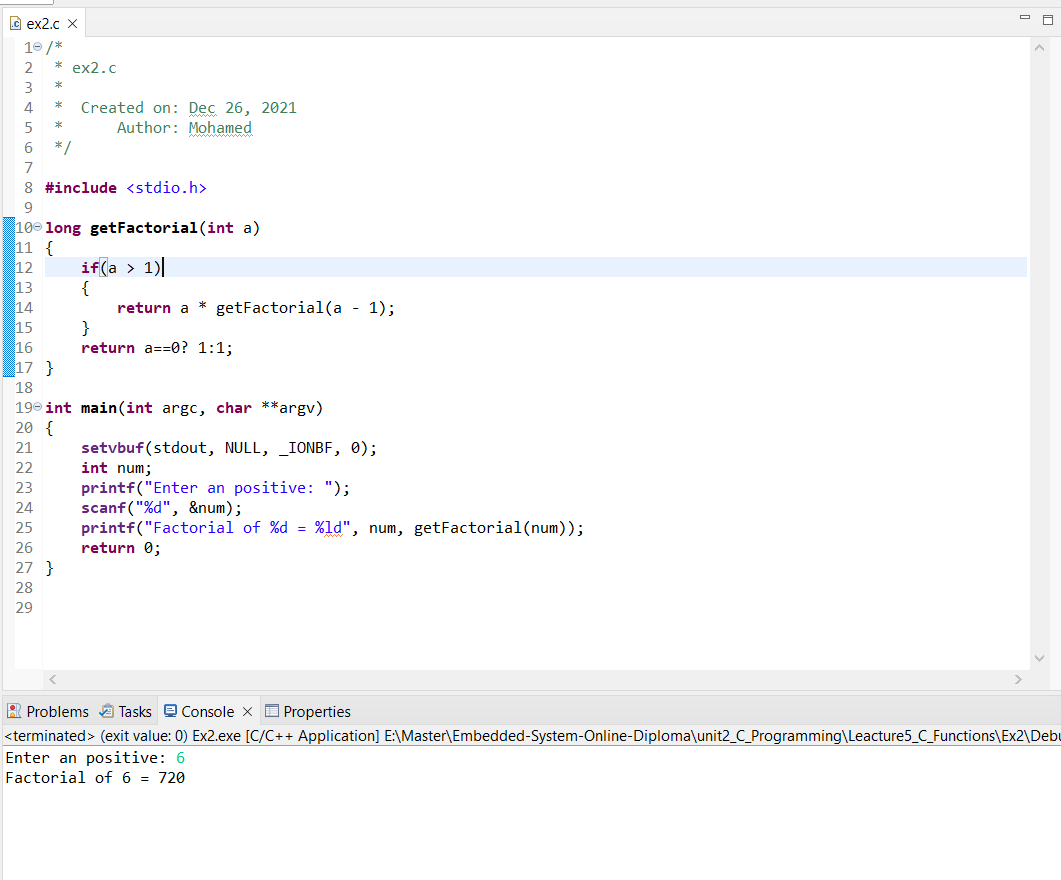
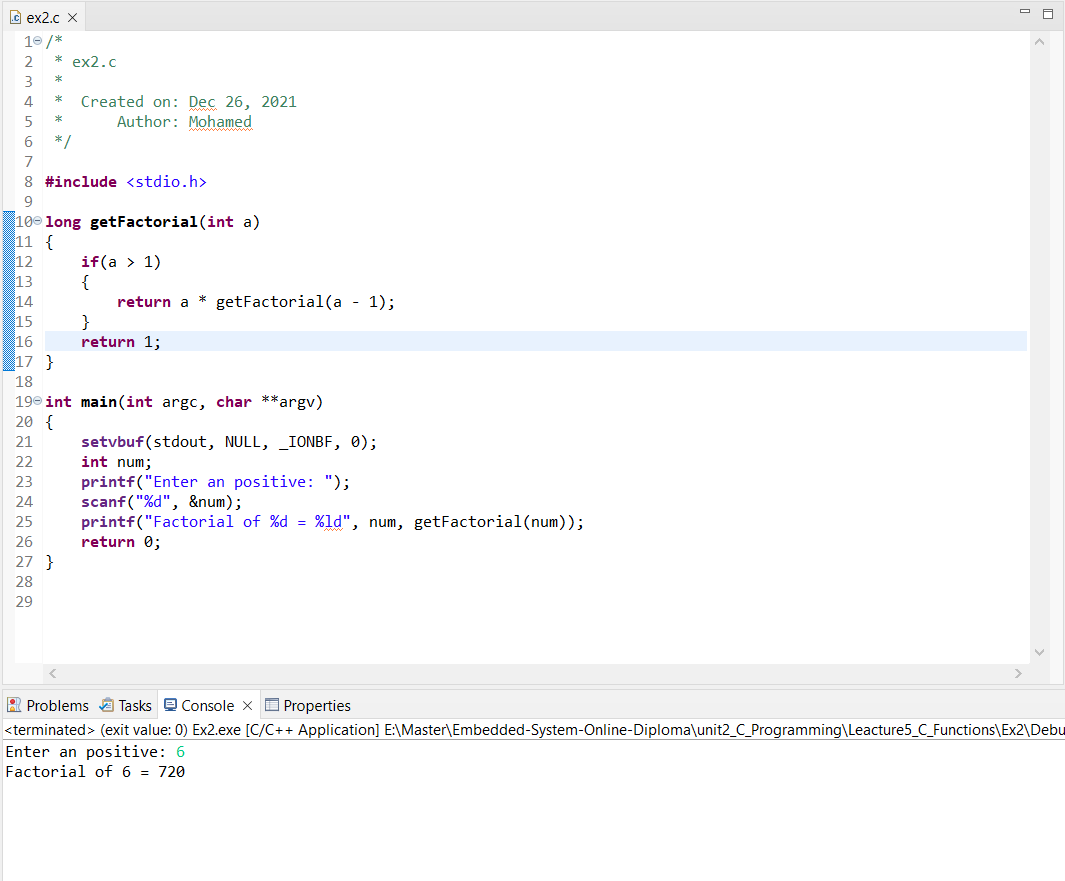
where is your ears juha? return 1 direct! :'D

diff --git a/unit2_C_Programming/Leacture5_C_Functions/Ex2/ex2.c b/unit2_C_Programming/Leacture5_C_Functions/Ex2/ex2.c
@@ -13,7 +13,7 @@ long getFactorial(int a)
 	{
 		return a * getFactorial(a - 1);
 	}
-	return a==0? 1:1;
+	return 1;
 }
 
 int main(int argc, char **argv)
